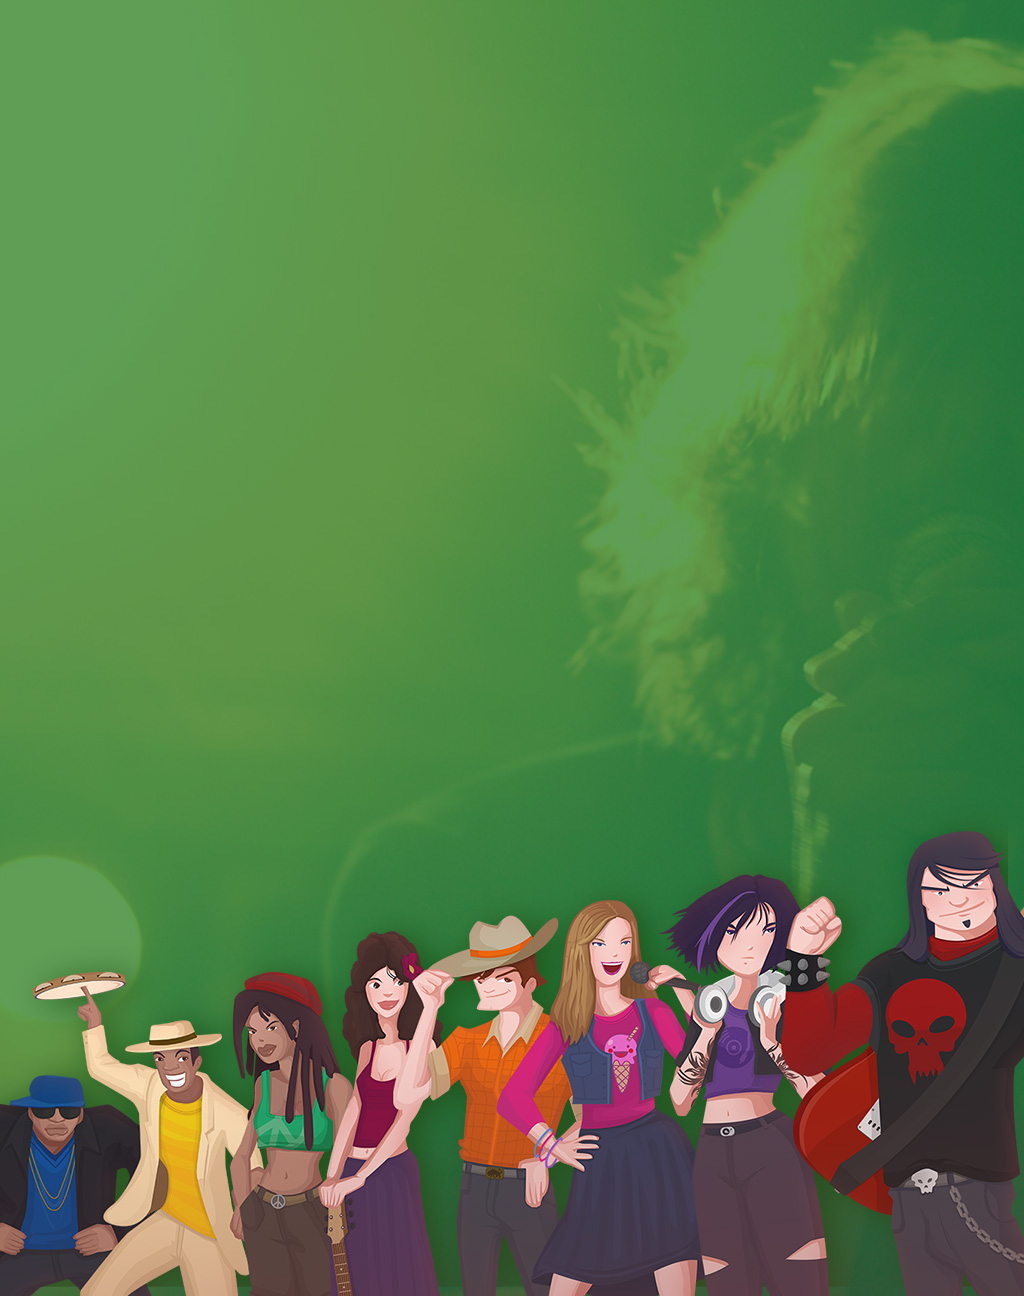
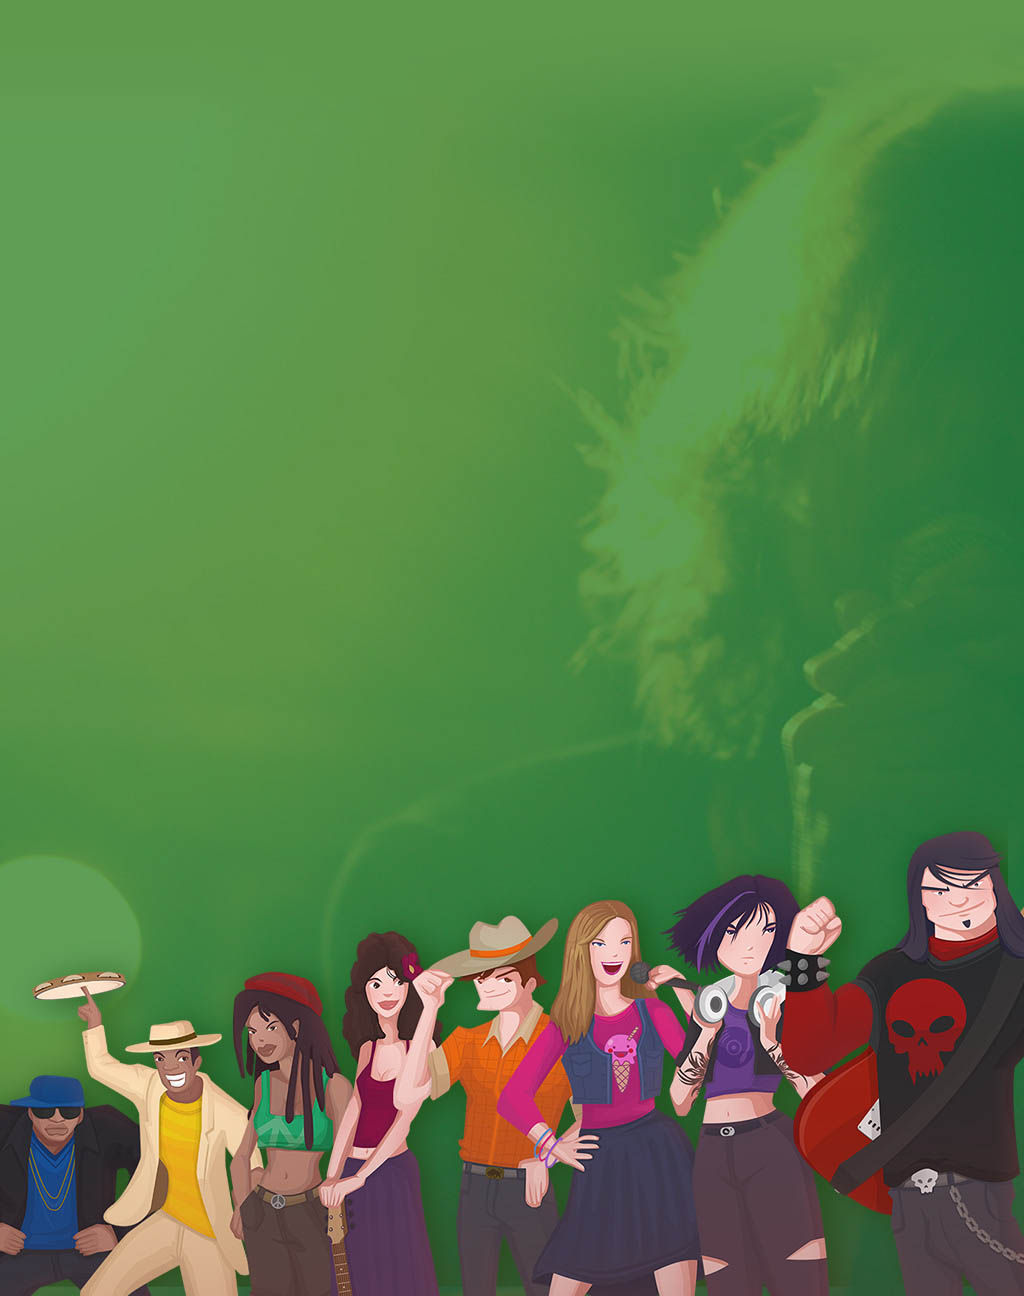
Alterações de layout

Changed region(s): [[0.625, 0.0, 1.0, 0.0926], [0.5938, 0.8025, 0.625, 0.8333]]

diff --git a/css/main.css b/css/main.css
@@ -77,7 +77,7 @@ body,
   }
   .jumbotron-heroes-lut {
     padding: 40px 30px 50%;
-    background: url(../img/herolut-sm.jpg) bottom center / 100% auto no-repeat #000000;
+    background: url(../img/herolut-sm.jpg) bottom center / 100% auto no-repeat #92313a;
   }
   .jumbotron-heroes-lut h1 {
     font-size: 3.2em;
@@ -99,7 +99,7 @@ body,
   .jumbotron-tedio-domina {
     padding: 50px 30px 20%;
     text-align: center;
-    background: url(../img/tedio-sm.jpg) bottom center / 100% auto no-repeat #000000;
+    background: url(../img/tedio-sm.jpg) bottom center / 100% auto no-repeat #3c4446;
   }
   .jumbotron-tedio-domina h1 {
     font-size: 3.6em;
@@ -350,7 +350,7 @@ body,
     text-align: center;
     padding: 0px 30px 10px !important;
     max-height: 830px;
-    background: url(../img/tedio.jpg) bottom center / 100% auto no-repeat #000000;
+    background: url(../img/tedio.jpg) bottom center / 100% auto no-repeat #3c4446;
   }
   .jumbotron-tedio-domina h1 {
     margin-top: 40%;
@@ -490,7 +490,7 @@ body,
     background: url(../img/homeheroes-sm.jpg) bottom center / 100% auto no-repeat #000000;
   }
   .jumbotron-heroes-lut {
-    background: url(../img/herolut.jpg) bottom center / 100% auto no-repeat #000000;
+    background: url(../img/herolut.jpg) bottom center / 100% auto no-repeat #92313a;
     padding-top: 100px;
   }
   .jumbotron-heroes-lut .btn {
@@ -505,7 +505,7 @@ body,
   }
   .jumbotron-tedio-domina {
     text-align: center;
-    background: url(../img/tedio.jpg) bottom center / 100% auto no-repeat #000000;
+    background: url(../img/tedio.jpg) bottom center / 100% auto no-repeat #474c4c;
   }
   .jumbotron-tedio-domina h1 {
     margin-top: 40%;
@@ -745,6 +745,130 @@ body,
   .jumbotron-poderes h1 {
     margin-top: 25%;
     font-size: 4.5em;
+    text-align: center;
+  }
+  .jumbotron-poderes p {
+    text-align: center;
+    margin-bottom: 10px;
+  }
+  .jumbotron-poderes .conf-call {
+    color: #ff7a03;
+  }
+}
+@media (min-width: 300px) and (max-width: 400px) {
+  .jumbotron-tedio-domina {
+    padding: 50px 30px 20%;
+    text-align: center;
+    background: url(../img/tedio-sm.jpg) bottom center / 100% auto no-repeat #3c4446;
+  }
+  .jumbotron-tedio-domina h1 {
+    font-size: 2.5em;
+    text-align: center;
+  }
+  .jumbotron-tedio-domina p {
+    text-align: center;
+    margin-bottom: 15px;
+  }
+  .jumbotron-his-vilao {
+    background: url(../img/vile-sm.jpg) bottom center / 100% auto no-repeat #0d2432;
+    padding: 30px 30px 70%;
+  }
+  .jumbotron-his-vilao h1 {
+    font-size: 3.6em;
+  }
+  .jumbotron-conheca {
+    background-color: #000;
+    padding: 20px 30px 10%;
+  }
+  .jumbotron-conheca .col-sm-6 {
+    min-height: 20px;
+  }
+  .jumbotron-conheca h1 {
+    font-size: 3em;
+    margin-bottom: 0;
+  }
+  .jumbotron-conheca p {
+    margin-bottom: 10px;
+  }
+  .jumbotron-heroes-lut {
+    padding: 40px 30px 50%;
+    background: url(../img/herolut-sm.jpg) bottom center / 100% auto no-repeat #92313a;
+  }
+  .jumbotron-heroes-lut h1 {
+    font-size: 2.8em;
+  }
+  .jumbotron-heroes-lut .btn {
+    margin-top: 10px;
+  }
+  .jumbotron-home-power {
+    padding: 40px 30px 55%;
+    background: url(../img/homepowers-sm.jpg) bottom center / 100% auto no-repeat #000000;
+  }
+  .jumbotron-home-power h1 {
+    font-size: 2.2em;
+  }
+  .jumbotron-home-heroes {
+    padding: 40px 30px 40%;
+    background: url(../img/homeheroes-sm.jpg) bottom center / 100% auto no-repeat #5f994c;
+  }
+  .jumbotron-home-heroes .btn {
+    margin-top: 20px;
+  }
+  .jumbotron-conheca {
+    background-color: #000;
+    padding: 20px 30px 10%;
+  }
+  .jumbotron-conheca .col-sm-6 {
+    min-height: 20px;
+  }
+  .jumbotron-conheca h1 {
+    font-size: 2.4em;
+    margin-bottom: 0;
+  }
+  .jumbotron-conheca p {
+    margin-bottom: 10px;
+  }
+  .jumbotron-batafil {
+    background-color: #000;
+    padding: 25px 30px 12%;
+  }
+  .jumbotron-batafil p {
+    margin-bottom: 25px;
+  }
+  .jumbotron-batafil h1 {
+    font-size: 3em;
+    margin-top: 10px;
+    text-align: center;
+  }
+  .jumbotron-compa {
+    padding: 30px 30px 5%;
+    background: url(../img/cards.png) bottom right / 95% auto no-repeat #80282f;
+  }
+  .jumbotron-compa h1 {
+    font-size: 2.2em;
+    margin-top: 10px;
+    text-align: center;
+  }
+  .jumbotron-funca {
+    padding: 60px 30px 12%;
+    background: #20253A;
+  }
+  .jumbotron-funca .col-sm-7 {
+    min-height: 0;
+  }
+  .jumbotron-funca h1 {
+    font-size: 2.5em;
+    margin-top: 10px;
+    text-align: center;
+  }
+  .jumbotron-poderes {
+    text-align: center;
+    background: url(../img/conhes.jpg) bottom center / 100% auto no-repeat #000000;
+    background-size: cover;
+    padding: 40px 30px 12%;
+  }
+  .jumbotron-poderes h1 {
+    font-size: 2.1em;
     text-align: center;
   }
   .jumbotron-poderes p {
